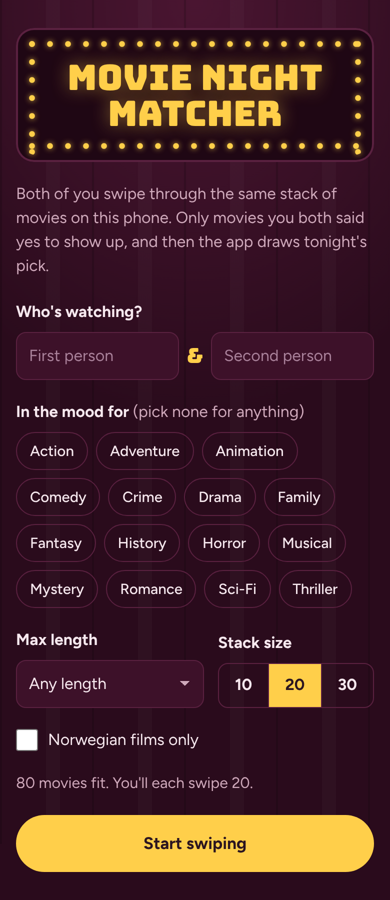
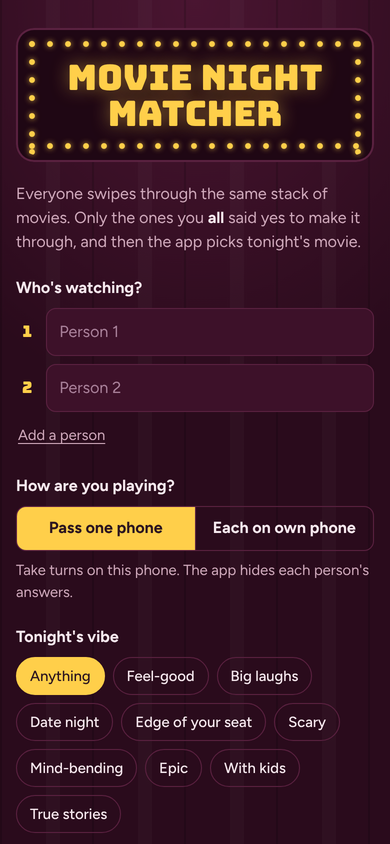
Update README, process log and screenshots for version 2
Live link, short description for Canvas, feature list, test overview (22 unit tests, 64 browser checks), data tools, and the full AI process log including how the 570 movies were checked.

Claude-Session: https://claude.ai/code/session_01S88RadDYGEarDbcDpuwYMq

diff --git a/README.md b/README.md
@@ -1,63 +1,76 @@
 # Movie Night Matcher
 
-**Stop scrolling, start watching.** Two people swipe through the same stack of movies on one phone. The app only shows the movies you *both* said yes to, and then draws tonight's pick.
+**Stop scrolling, start watching.** 2 to 6 people swipe through the same stack of movies, on one phone or each on their own. Only the movies *everyone* said yes to make it through, and then the app draws tonight's pick or settles it with a head-to-head showdown.
 
-**Live app:** https://YOUR-GITHUB-USERNAME.github.io/IntroTilKI/  <!-- replace after enabling GitHub Pages -->
+**Live app:** https://kegun8344.github.io/IntroTilKI/
 
-Made for *Mandatory Assignment 3: Vibe Coding* in DAVE3625, approach **C: recreate or improve an existing app**. It borrows the swipe-to-match idea from dating apps and uses it on the classic "what should we watch tonight?" problem that every streaming service leaves you with.
+Made for *Mandatory Assignment 3: Vibe Coding* in DAVE3625, approach **C: recreate or improve an existing app**. It takes the swipe-to-match idea from dating apps and uses it on a problem every streaming service leaves you with: agreeing on what to watch.
 
-| Setup | Swiping | Hand-off | Results |
-|---|---|---|---|
-| ![Setup screen](docs/screenshots/1-setup.png) | ![A movie ticket card](docs/screenshots/2-swipe.png) | ![Pass the phone](docs/screenshots/3-handoff.png) | ![Matches and the drawn winner](docs/screenshots/4-results.png) |
+| Setup | Swiping | Ticket details |
+|---|---|---|
+| ![Setup with vibes and filters](docs/screenshots/1-setup.png) | ![A movie ticket card](docs/screenshots/2-swipe.png) | ![The back of a ticket](docs/screenshots/3-details.png) |
+| **Own phones** | **Showdown** | **Results** |
+| ![Send the link to the next person](docs/screenshots/4-send-link.png) | ![Head-to-head showdown](docs/screenshots/5-showdown.png) | ![Matches and tonight's movie](docs/screenshots/6-results.png) |
 
 ## Short description (for Canvas)
 
-Movie Night Matcher is a small web app for two people who can't agree on a movie. You enter both names, choose genres, maximum length and how many movies to swipe. Each person then swipes the same stack of movies on the same phone (in a different order, with a "pass the phone, no peeking" screen in between). Swipe right for yes, left to skip, or up for "must watch". The results screen lists the movies you both said yes to, plus the ones only one of you liked, and a weighted draw picks tonight's movie (a "must watch" gives a movie extra tickets in the draw). Past movie nights are saved in the browser. I built it with AI (Claude) through vibe coding: describing what I wanted, letting the AI write the code, and testing and improving it with automated tests.
+Movie Night Matcher is a web app for groups who can't agree on a movie. Add 2–6 people, pick a vibe (feel-good, scary, date night and more) and optional filters, and everyone swipes the same stack from a catalogue of 570 movies: right for yes, left to skip, up for "must watch" (max 3 each). Tap a ticket to flip it for the director, cast, a trailer and where to stream it. Play by passing one phone, or each on your own phone: the whole game is stored in a link you send to the next person, so there's no server or account. The results show what everyone said yes to and what almost made it, plus fun facts about the group. A weighted draw picks tonight's movie, or a head-to-head showdown decides it. The app can be installed on a phone and works offline. I built it with AI (Claude) through vibe coding. It is tested with 22 unit tests and a 64-check browser test, and the movie facts are checked automatically against two open datasets.
 
 ## Features
 
-1. **Swipe to vote.** Drag the ticket card (touch or mouse), use the buttons, or use the arrow keys. Undo your last answer.
-2. **Match and draw.** Both players vote on the same movies. Matches are ranked (must watch + must watch on top), and "Draw tonight's movie" does a weighted random draw with a short spin animation.
-3. **Filters and history.** Filter by genre, max length and Norwegian films only. The app warns you if no movies fit. Names, settings and the last 10 movie nights are remembered in the browser.
+**Core**
+1. **Swipe to vote.** Drag the ticket (touch or mouse), use the buttons or the arrow keys, and undo your last answer. "Must watch" is limited to 3 per person, so it means something.
+2. **Match, draw or showdown.** Matches need a yes from everyone, and "almost" shows what all but one person liked. The draw is weighted (must-watch picks get extra tickets), and the showdown is a knockout bracket of your top 8.
+3. **Two ways to play.** Pass one phone with a "no peeking" hand-off screen, or each person uses their own phone and passes on a link that holds the game.
 
-Extras: copy results to the clipboard (to send in a chat), works offline, keyboard accessible, and respects "reduce motion".
+**Extras**
+- 570 hand-picked movies from 27 countries, including 20 Norwegian films.
+- Filters: vibe, genres, made in (Norway, Nordic, Asia and more), from/to decade, max length, and hiding movies you have seen.
+- Flip a ticket to see the director, cast, a trailer search and where to stream (JustWatch Norway), and mark it "Seen it".
+- Fun facts: the pickiest person, the easiest to please, and who is most in sync.
+- History of past movie nights, "We watched it", and sharing or copying results.
+- Installable as an app (PWA), works offline, optional sound and vibration, confetti for the winner.
+- Accessible: keyboard controls, screen-reader labels, visible focus, and "reduce motion" respected.
+- An [About page](about.html) explaining how the app was made.
 
 ## How to run it
 
-It is a static site with no build step and no server code.
+It is a static site: no build step, no server code, no API keys.
 
-- **Online:** open the GitHub Pages link above.
-- **Locally:** double-click `index.html`, or run a tiny server in the folder: `python -m http.server 8000` and open http://localhost:8000.
+- **Online:** open the live link above.
+- **Locally:** run `python -m http.server 8000` in the folder and open http://localhost:8000. You can also double-click `index.html`, but offline mode only works over http.
 
 ### Publish on GitHub Pages
-1. Commit and push the repo with GitHub Desktop.
-2. On GitHub: **Settings → Pages → Build and deployment → Source: Deploy from a branch**, Branch: `main`, folder `/ (root)`, then **Save**.
-3. After about a minute the link appears at the top of the Pages settings. Paste it into the "Live app" line above.
+On GitHub go to **Settings → Pages → Deploy from a branch**, choose `main` and `/ (root)`, and click **Save**. The site updates about a minute after each push.
 
-## Tests
+## Tests and checks
 
-| What | Command | Checks |
+| What | Command | What it checks |
 |---|---|---|
-| Unit tests (game logic) | `node --test tests/logic.test.js` | 11 tests: movie data is valid, shuffling, filters, match scoring, weighted draw, text export |
-| End-to-end (real browser, phone size) | `npm install`, `npx playwright install chromium`, `npm run test:e2e` | 19 checks: plays a full movie night with drag, buttons and keyboard, tests undo, checks that no horizontal scrollbar appears while swiping, checks that matches on screen equal the expected matches, the winner, history, settings after reload, and that there are no JavaScript errors |
+| Unit tests | `npm test` | 22 tests: catalogue validity, every vibe and region has movies, shuffling, all filters, must-watch limit, results for 2 and 4 players, weighted draw, fun facts, showdown brackets of every size, share links (incl. æøå and broken links), and the data build tool |
+| Browser test | `npm install`, `npx playwright install chromium`, `npm run test:e2e` | 64 checks in a phone-sized Chromium: filters, 3 people on one phone (flip, undo, must-watch limit, seen it), results compared with expected answers, draw, showdown, saved settings, 2 phones via a share link, broken link, offline reload, About page, no horizontal scrollbar, no JavaScript errors |
+| Data build | `npm run build:movies` | Every line of `data/movies.txt`: fields, year, runtime, genres, country, pitch length and duplicates. It then regenerates `js/movies.js` |
+| Fact check | `npm run check:facts` | Cross-checks year, cast, runtime and director against Wikipedia movie data and vega-datasets. Flags are reviewed by a person (`data/reviewed-flags.txt`) |
 
-See [PROCESS.md](PROCESS.md) for how AI was used and which bugs the tests found.
+See [PROCESS.md](PROCESS.md) for how AI was used and which bugs were found.
 
 ## How it's built
 
 | File | Job |
 |---|---|
-| `index.html` | The four screens: setup, swipe, hand-off, results |
-| `styles.css` | Cinema look: velvet background, marquee sign, movies as coloured raffle tickets (colour = genre) |
-| `js/movies.js` | 80 hand-picked movies (incl. 6 Norwegian) with year, length, genres and a one-line pitch |
-| `js/logic.js` | Pure game rules (filter, shuffle, scoring, weighted draw). No DOM, so it can be unit tested in Node |
-| `js/app.js` | UI: rendering, swipe gestures, screen flow, localStorage |
+| `index.html` | The screens: setup, invite, swipe, hand-off, send link, results, showdown |
+| `styles.css` | Cinema look: velvet curtain, marquee sign, movies as raffle tickets coloured by genre |
+| `js/logic.js` | Pure game rules (filters, scoring, draw, showdown, share links). No DOM, so it can be unit tested |
+| `js/app.js` | UI: rendering, swipe gestures, card flip, screen flow, storage, sharing, sound and confetti |
+| `data/movies.txt` → `js/movies.js` | The catalogue: one movie per line, built and checked by `tools/build-movies.mjs` |
+| `sw.js`, `manifest.webmanifest`, `icons/` | Offline support and "Add to home screen" |
+| `about.html` | About page |
 | `fonts/` | Bungee and Figtree (SIL Open Font License), bundled so the app works offline |
 
-Plain HTML, CSS and JavaScript with no framework, so it runs anywhere.
+Plain HTML, CSS and JavaScript with no framework.
 
 ## Notes
 
-- No posters or images from movies are used. Titles, years, lengths and genres are public facts, and the one-line pitches are written for this app. Runtimes are approximate.
-- Not affiliated with any streaming service or dating app.
-- No accounts, no API keys, no tracking. Everything you enter stays in your own browser (localStorage).
+- No posters or images from movies are used. Titles, years, runtimes, directors and cast are public facts, and the one-line pitches are written for this app. Runtimes are approximate.
+- Not affiliated with any streaming service or app. Trailer and streaming buttons only open a YouTube or JustWatch search.
+- Privacy: no accounts and no tracking. Names, settings, history and the seen list stay in your browser. A share link contains the names and answers of that game, so only send it to the people playing.

diff --git a/PROCESS.md b/PROCESS.md
@@ -1,39 +1,68 @@
 # How I used AI to build this (vibe coding log)
 
-**AI tool:** Claude (Anthropic), in the Claude app with access to my project folder. Claude wrote the code and ran the tests. I chose the idea and the direction, reviewed the results and decided what to keep.
+**AI tool:** Claude (Anthropic), in the Claude app with access to my project folder. Claude wrote the code, ran the tests and committed to my repo as it went. I chose the idea and the direction, tried the app, reported problems and decided what to keep.
 
 ## 1. Brainstorming the idea
 - I pasted the assignment text and asked for help. Claude suggested four ideas based on my everyday life (shift tracker, study planner, car rental checklist, group project board).
 - I said **no work-related ideas**. The second round (expense splitter, recipe finder, café ordering, habit tracker) didn't excite me either.
-- Third round: live departure board (Ruter-style), **movie-night matcher**, beat maker, guess-the-place game. I picked the movie-night matcher. It recreates an existing app idea (swipe to match) and solves a real problem: two people who can't agree on a movie.
+- Third round: live departure board (Ruter-style), **movie-night matcher**, beat maker, guess-the-place game. I picked the movie-night matcher. It recreates an existing app idea (swipe to match) and solves a real problem.
 - I chose an **English** interface.
 
-## 2. Planning
+## 2. Version 1: a small working app
 Claude proposed, and I accepted:
-- A static website (HTML/CSS/JS) so it can be hosted for free on GitHub Pages, with no API keys or personal data.
+- A static website (HTML/CSS/JS) that can be hosted for free on GitHub Pages, with no API keys or personal data.
 - 2–3 core features: swiping, matching plus a draw, and filters plus history.
 - Splitting the game rules (`logic.js`) from the UI (`app.js`) so the rules can be tested automatically.
-- A visual identity built on cinema tickets: each movie is a coloured raffle ticket (colour = genre), the title is a marquee sign, and the winner gets an "Admit two" ticket.
+- A visual identity built on cinema tickets: each movie is a coloured raffle ticket, the title is a marquee sign, and the winner gets an "Admit" ticket.
 
-## 3. Building
-Claude generated the movie list, the logic, the four screens and the swipe gestures (pointer events, so they work with both touch and mouse). I asked Claude to work directly in my repo folder.
+Version 1 had 80 movies and 2 players on one phone.
 
-## 4. Testing and improving
-| # | How it was found | Problem | Fix |
+## 3. My feedback during version 1
+- **"Work in the folder I gave you."** Claude first drafted files in its own workspace; I asked it to work directly in my repo folder.
+- **"You have to commit along the way."** From then on, every step became its own git commit.
+- **"Every time I swipe a card, a horizontal scrollbar appears."** I found this while trying the app (see bug 7 below).
+- **"Shouldn't we have several pages instead of everything in index.html?"** Claude explained why a single-page app suits this (shared state between screens, no reloads, no peeking), and suggested a separate About page instead. That page was added in version 2.
+
+## 4. Version 2: "cook as hard as you can, and at least 500 movies"
+I asked for a much bigger app. Claude's plan, which I let it carry out:
+1. A catalogue of 500+ movies from around the world, with director, cast and country, and automatic fact-checking.
+2. 2–6 players.
+3. Each person on their own phone, using share links and no server.
+4. More filters (vibe, origin, decade, length, hide movies you've seen).
+5. Flip cards with details, trailer and streaming links.
+6. Must-watch limited to 3 per person.
+7. A head-to-head showdown as an alternative to the random draw.
+8. Installable, works offline, with sound, vibration and confetti.
+9. An About page.
+10. Many more tests.
+
+### How the 570 movies were made and checked
+- Claude wrote the list as a plain text file (`data/movies.txt`), one movie per line, with its own one-line pitches (no copied plot summaries or posters).
+- `tools/build-movies.mjs` checks every line (fields, year, runtime, known genres and countries, pitch length, duplicates) and generates `js/movies.js`.
+- The live movie database (Wikidata) was blocked from Claude's environment, so it found two open datasets on GitHub instead: Wikipedia movie data (year and cast) and vega-datasets (runtime and director). `tools/check-facts.mjs` compares our list with them.
+- Result: 428 movies matched against Wikipedia and 232 against vega. It found **1 real error** (the wrong lead actor for *Cool Runnings*, now fixed). It also showed that **the reference data itself was wrong** in several places (for example *The Big Lebowski* listed as 127 min instead of 117, and *The Matrix* credited to an old name). Those 11 flags were reviewed and written down with reasons in `data/reviewed-flags.txt`, so the checker only warns about new problems. Lesson: test data needs human judgment too.
+
+## 5. Testing and improving (all versions)
+| # | Found by | Problem | Fix |
 |---|---|---|---|
-| 1 | Unit tests (11) | All passed on the first run | Kept as a safety net for later changes |
-| 2 | End-to-end browser test | After the last swipe, the flown-away card stayed hidden in the page, so code that looked for "the current card" still found one | Clear the stack and fill the progress bar when a turn ends |
-| 3 | Reviewing screenshots | An empty notification pill was peeking out at the bottom of the screen | Hide the notification completely (`visibility: hidden`) when it isn't showing |
-| 4 | Reviewing screenshots | Fonts were loaded from Google Fonts, so the app depended on an external service and looked plain offline | Bundled the font files in `fonts/` (open licence) |
-| 5 | Running the test with the file opened from disk | A font "preload" line caused a browser security (CORS) error when opening `index.html` by double-clicking | Removed the preload line, now 0 errors both from disk and from a web server |
-| 6 | Reviewing screenshots | Ticket cards had a large empty area | Added the release year as a big, faint "printed" number on the ticket |
-| 7 | **Me, trying the app** | Every time a card was swiped to the right, a horizontal scrollbar flashed at the bottom of the page and the animation looked stuttery | Claude reproduced it with a test (the page became 397 px wider mid-swipe), clipped sideways overflow on the page, and added a "no horizontal scrollbar while swiping" check to the browser test |
+| 1 | Unit tests | All passed on the first run | Kept as a safety net for later changes |
+| 2 | Browser test | After the last swipe, the card that flew away stayed hidden in the page | Clear the stack when a turn ends |
+| 3 | Screenshot review | An empty notification pill peeked out at the bottom of the screen | Hide it completely when not showing |
+| 4 | Screenshot review | Fonts loaded from Google Fonts, so the app depended on an outside service | Bundled the fonts in `fonts/` |
+| 5 | Opening the file from disk | A font "preload" line caused a browser security (CORS) error | Removed the preload line |
+| 6 | Screenshot review | Ticket cards had a large empty area | Added the year as a big, faint "printed" number |
+| 7 | **Me, trying the app** | A horizontal scrollbar flashed every time a card was swiped right | Reproduced with a test (the page got 397 px wider), clipped sideways overflow, added a permanent check |
+| 8 | Fact checker | Wrong lead actor for one movie | Fixed in the data file |
+| 9 | Fact checker | False alarms from Norwegian and Korean films whose titles match American remakes | Only compare years for American films (the dataset only has American films) |
+| 10 | Screenshot review (v2) | Confetti from a draw kept falling into the showdown screen | Stop the confetti on every screen change, with a test |
+| 11 | Screenshot review (v2) | The must-watch badge said a cryptic "★ ×1" | It now names who picked it ("★ Kevin's must watch") |
+| 12 | Screenshot review (v2) | On computers without a share menu, "Copy link" looked like a secondary button | It becomes the main button there |
 
-Final result: **11/11 unit tests and 19/19 browser checks pass**, with no JavaScript errors, at phone size (390×844).
+Final result: **22/22 unit tests, 64/64 browser checks**, 570/570 movie lines valid, 0 unreviewed fact-check flags, and no JavaScript errors.
 
-## 5. My reflection
+## 6. My reflection
 <!-- Write a few sentences in your own words, for example:
 - What surprised you about building with AI?
 - What did the AI do well, and where did you have to step in or steer?
-- What would you add next (e.g. a remote mode where two phones join the same session, or real movie data from an API)?
+- What would you add next?
 -->
